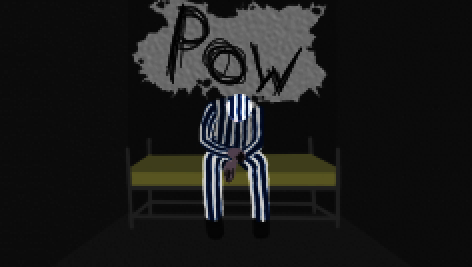
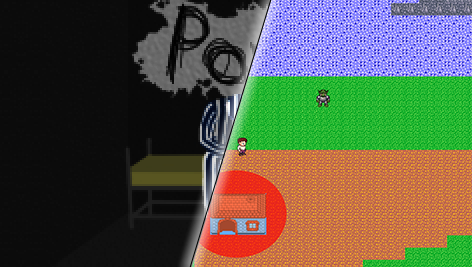
New Game Added

diff --git a/index.html b/index.html
@@ -228,7 +228,7 @@
                                 <h3>Games Development</h3>
                                 <p class="subline">Published Games</p>
                                 
-                                <p>As of now i have published 1 title on itch.io as i have many games in development right now. This game POW set in the thick of world war two, Lieutenant George Andrews has been captured and held prisoner by the Germans, due to high volumes in the prisoner camps the Lieutenant has been sent to the Jewish camps to face the horrors alone. In this top down prison escape, you will be faced with challenges such as sneaking passed guards, picking up letters which in turn give ideas to find tools in order to escape the prison. </p>
+                                <p>As of now i have published 2 title's on itch.io as i have many games in development right now. Both of which are in the same 2D top down style, Prisoner Of War was made using monogame (C#). Fantasy and Ash was made using C++ and SFML built from the game engine up. Have a play and leave a comment rating below the itch page!. </p>
                                 
                                 
                             </div>
